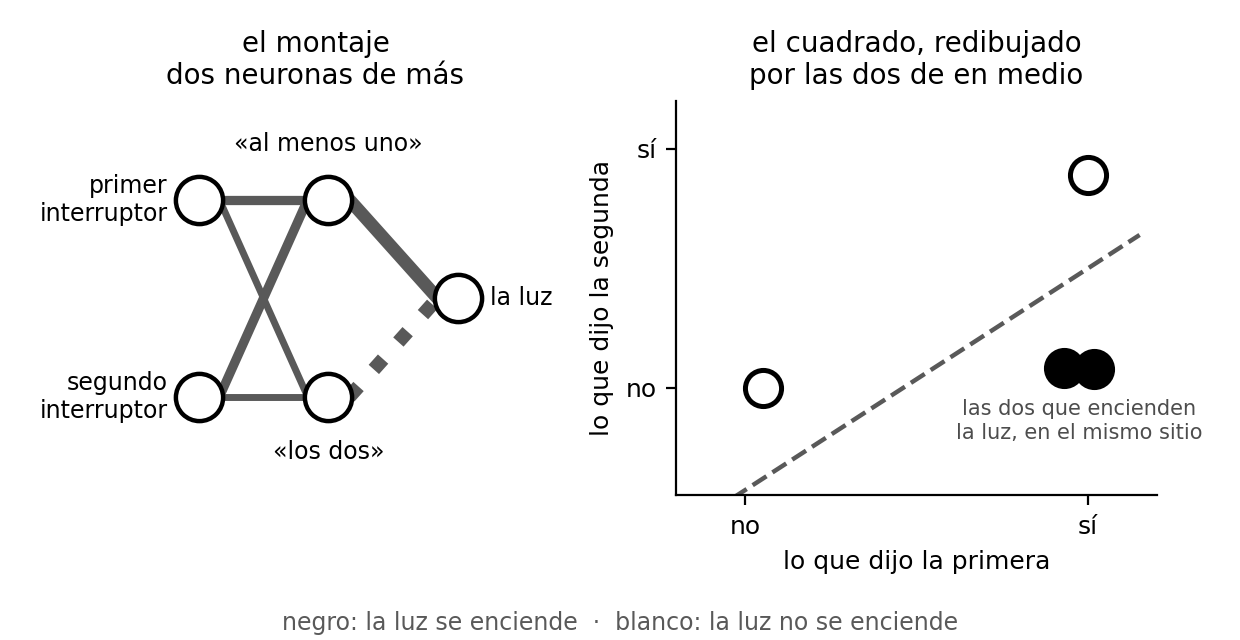
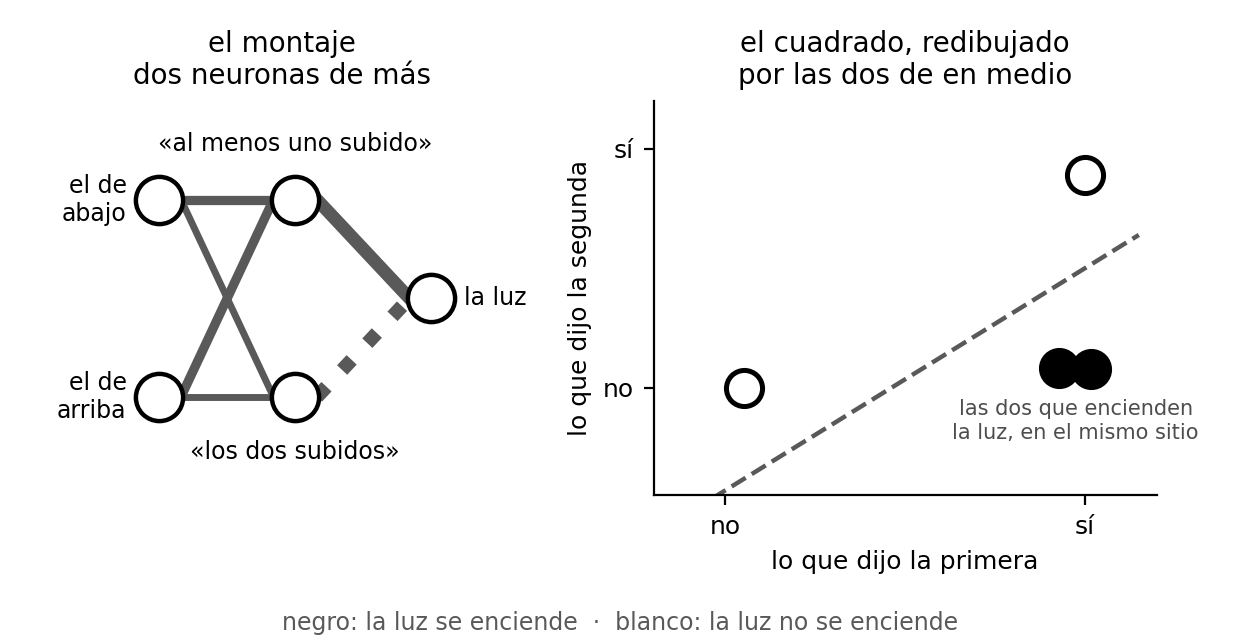
Las dieciseis reglas pasan a hablar del pasillo
perceptron.py renombra las dieciseis: 'solo el de abajo', 'en posiciones
distintas', 'en la misma posicion', 'al menos uno subido'. figura_una_raya
cambia ejes y titulos; figura_apilar, las entradas. Todo regenerado.

El motivo: 'dos interruptores y una luz' era un aparato inventado para la
ocasion que no existe en casa de nadie. El de verdad es la luz del pasillo
con un interruptor abajo y otro arriba, y resulta que las dos reglas que el
perceptron NO puede aprender son exactamente las dos que hay instaladas en
casi todas las casas.

Claude-Session: https://claude.ai/code/session_012cuTPu3mnKRQtUvBTtLSKH

diff --git a/codigo/figura_una_raya.py b/codigo/figura_una_raya.py
@@ -21,7 +21,7 @@ PUNTOS = 200                     # puntos por pulgada
 
 ESQUINAS = [(0, 0), (0, 1), (1, 0), (1, 1)]
 ENCIENDE_FACIL = {(1, 1)}                    # «los dos encendidos»: una raya basta
-ENCIENDE_XOR = {(0, 1), (1, 0)}              # «exactamente uno»: ninguna raya basta
+ENCIENDE_XOR = {(0, 1), (1, 0)}              # «en posiciones distintas»: ninguna raya basta
 
 # tres intentos de raya para el panel derecho, como (pendiente, altura)
 INTENTOS = [(-1.0, 0.5), (-1.0, 1.5), (1.0, -0.4)]
@@ -49,10 +49,10 @@ def panel(ax, encienden, titulo, rayas):
         ax.plot(xs, [m * x + h for x in xs], "--", color="0.35", linewidth=1.2, zorder=2)
     ax.set_xlim(-0.45, 1.45)
     ax.set_ylim(-0.45, 1.45)
-    ax.set_xticks([0, 1]); ax.set_xticklabels(["apagado", "encendido"])
-    ax.set_yticks([0, 1]); ax.set_yticklabels(["apagado", "encendido"])
-    ax.set_xlabel("primer interruptor")
-    ax.set_ylabel("segundo interruptor")
+    ax.set_xticks([0, 1]); ax.set_xticklabels(["bajado", "subido"])
+    ax.set_yticks([0, 1]); ax.set_yticklabels(["bajado", "subido"])
+    ax.set_xlabel("el interruptor de abajo")
+    ax.set_ylabel("el de arriba")
     ax.set_title(titulo, fontsize=10.5, pad=10)
     ax.set_aspect("equal")
     for lado in ("top", "right"):
@@ -63,8 +63,8 @@ def panel(ax, encienden, titulo, rayas):
 def dibujar():
     plt.rcParams["font.size"] = 9
     fig, (izq, der) = plt.subplots(1, 2, figsize=ANCHO_ALTO)
-    panel(izq, ENCIENDE_FACIL, "«los dos encendidos»\nuna raya basta", [(-1.0, 1.5)])
-    panel(der, ENCIENDE_XOR, "«exactamente uno»\nninguna raya basta", INTENTOS)
+    panel(izq, ENCIENDE_FACIL, "«los dos subidos»\nuna raya basta", [(-1.0, 1.5)])
+    panel(der, ENCIENDE_XOR, "«en posiciones distintas»\nninguna raya basta", INTENTOS)
     fig.text(0.5, 0.015,
              "negro: la luz se enciende    ·    blanco: la luz no se enciende",
              ha="center", fontsize=8.5, color="0.3")
@@ -83,14 +83,14 @@ def selftest():
 
     # 2. SEÑAL IMPLANTADA — la regla fácil del panel izquierdo tiene que ser separable.
     facil = hay_raya_que_separa(ENCIENDE_FACIL)
-    print(f"[2] señal implantada  «los dos encendidos» separable: {'sí' if facil else 'NO'}")
+    print(f"[2] señal implantada  «los dos subidos» separable: {'sí' if facil else 'NO'}")
     if not facil:
-        fallos.append("señal implantada: «los dos encendidos» debería ser separable")
+        fallos.append("señal implantada: «los dos subidos» debería ser separable")
 
     # 3. INVARIANTE DEL DOMINIO — el o exclusivo NO puede separarse con una raya.
     #    Es lo que afirma la figura; si esto saliera que sí, la figura mentiría.
     xor = hay_raya_que_separa(ENCIENDE_XOR)
-    print(f"[3] invariante        «exactamente uno» separable: {'sí' if xor else 'no'}")
+    print(f"[3] invariante        «en posiciones distintas» separable: {'sí' if xor else 'no'}")
     if xor:
         fallos.append("invariante: encontró una raya para el o exclusivo; la figura sería falsa")
 

diff --git a/codigo/perceptron.py b/codigo/perceptron.py
@@ -110,21 +110,24 @@ def reglas_de_dos_interruptores():
 # Las dieciséis reglas, nombradas en castellano corriente. La clave son las cuatro
 # respuestas, en el orden de TABLA_DOS: ninguno, solo el segundo, solo el primero, los dos.
 # Vive aquí, en el capítulo 2, y de aquí la importa el capítulo 3: una cosa, un nombre.
+# Los dos interruptores del libro son los del pasillo: uno abajo y otro arriba. Las
+# cuatro casillas de cada regla van en el orden de TABLA_DOS: los dos bajados, solo el
+# de arriba subido, solo el de abajo subido, los dos subidos.
 NOMBRES = {
     (0, 0, 0, 0): "nunca",
-    (0, 0, 0, 1): "los dos",
-    (0, 0, 1, 0): "solo el primero",
-    (0, 0, 1, 1): "el primero",
-    (0, 1, 0, 0): "solo el segundo",
-    (0, 1, 0, 1): "el segundo",
-    (0, 1, 1, 0): "exactamente uno",
-    (0, 1, 1, 1): "al menos uno",
-    (1, 0, 0, 0): "ninguno de los dos",
-    (1, 0, 0, 1): "los dos iguales",
-    (1, 0, 1, 0): "el segundo no",
-    (1, 0, 1, 1): "salvo solo el segundo",
-    (1, 1, 0, 0): "el primero no",
-    (1, 1, 0, 1): "salvo solo el primero",
+    (0, 0, 0, 1): "los dos subidos",
+    (0, 0, 1, 0): "solo el de abajo",
+    (0, 0, 1, 1): "el de abajo",
+    (0, 1, 0, 0): "solo el de arriba",
+    (0, 1, 0, 1): "el de arriba",
+    (0, 1, 1, 0): "en posiciones distintas",
+    (0, 1, 1, 1): "al menos uno subido",
+    (1, 0, 0, 0): "ninguno subido",
+    (1, 0, 0, 1): "en la misma posición",
+    (1, 0, 1, 0): "el de arriba no",
+    (1, 0, 1, 1): "salvo solo el de arriba",
+    (1, 1, 0, 0): "el de abajo no",
+    (1, 1, 0, 1): "salvo solo el de abajo",
     (1, 1, 1, 0): "no los dos",
     (1, 1, 1, 1): "siempre",
 }

diff --git a/codigo/figura_apilar.py b/codigo/figura_apilar.py
@@ -25,7 +25,7 @@ SALIDA = "../figuras/apilar.png"
 ANCHO_ALTO = (6.2, 3.2)          # pulgadas, para una página de 6 por 9
 PUNTOS = 200                     # puntos por pulgada
 
-PAREJA_BUSCADA = ("al menos uno", "los dos")   # el reparto más repetido, medido aparte
+PAREJA_BUSCADA = ("al menos uno subido", "los dos subidos")   # el reparto más repetido, medido aparte
 MAX_SEMILLAS = 60                # cuántas probar hasta dar con ese reparto
 UMBRAL = 0.5
 GROSOR_MAXIMO = 4.5              # grosor de la flecha del peso más grande
@@ -33,7 +33,7 @@ REJILLA = 61                     # finura de la búsqueda a lo bruto de rayas
 SOLAPE = 0.08                    # dos puntos más cerca que esto son el mismo sitio
 SEPARACION = 0.045               # cuánto se separan para que se vean los dos
 
-ETIQUETAS_ENTRADA = ["primer\ninterruptor", "segundo\ninterruptor"]
+ETIQUETAS_ENTRADA = ["el de\nabajo", "el de\narriba"]
 ETIQUETA_SALIDA = "la luz"
 
 # ==========================================================
